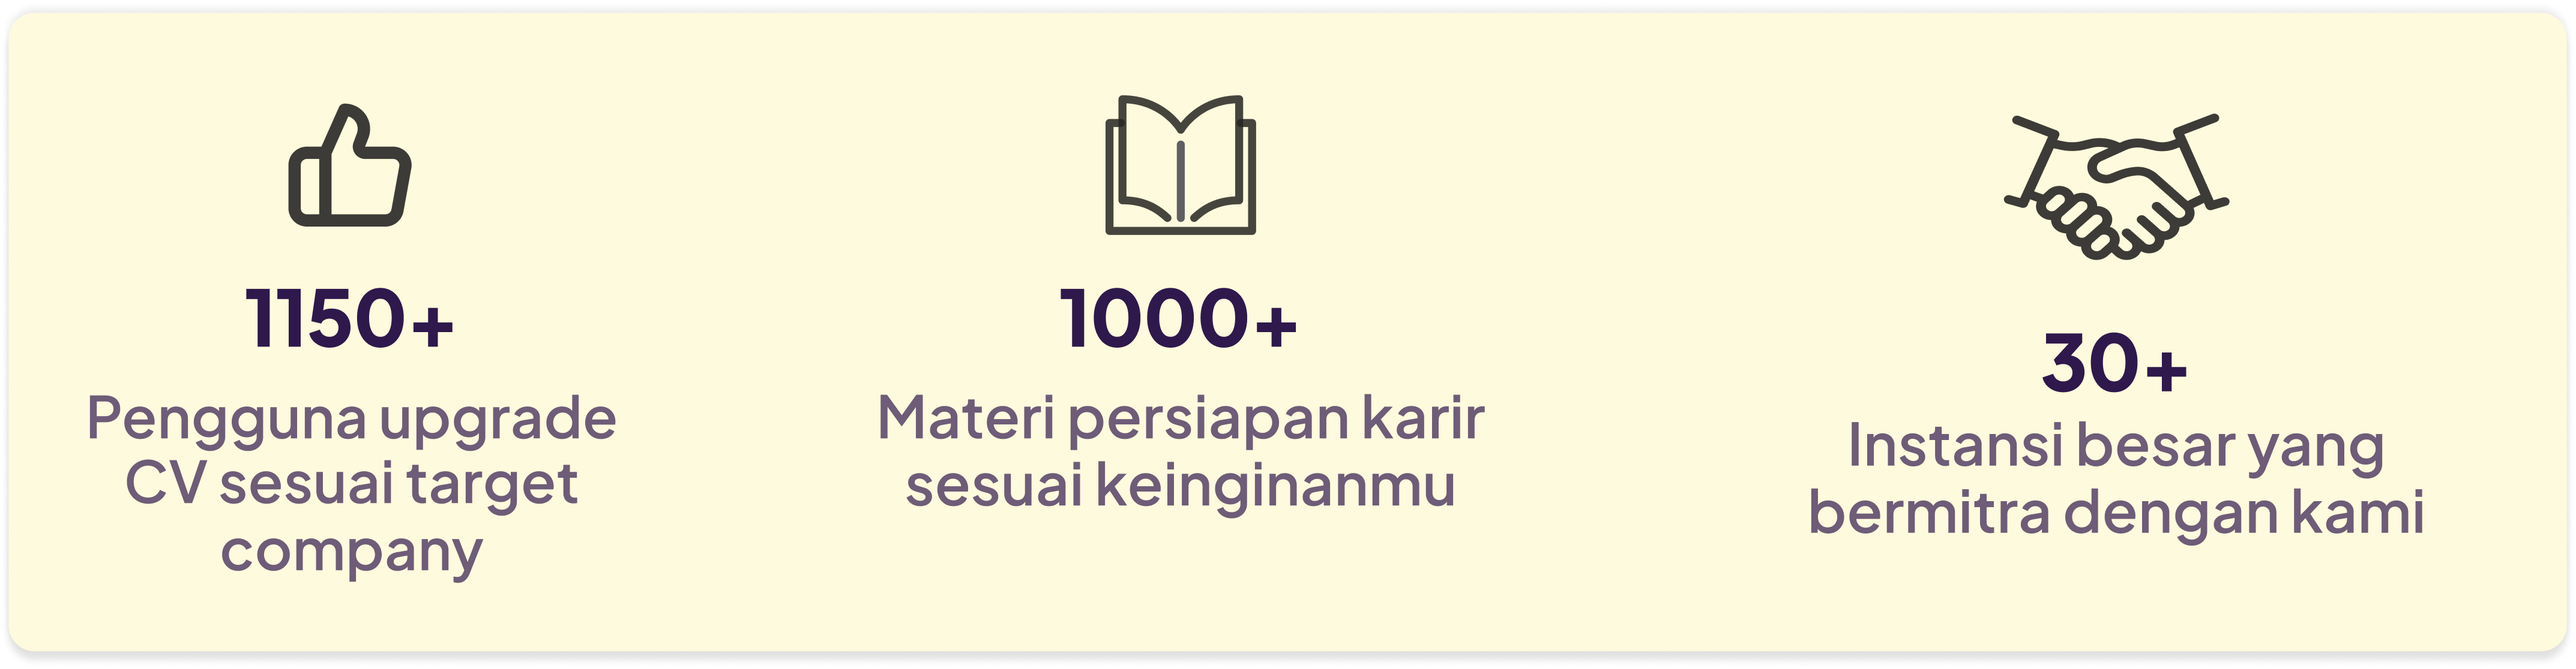
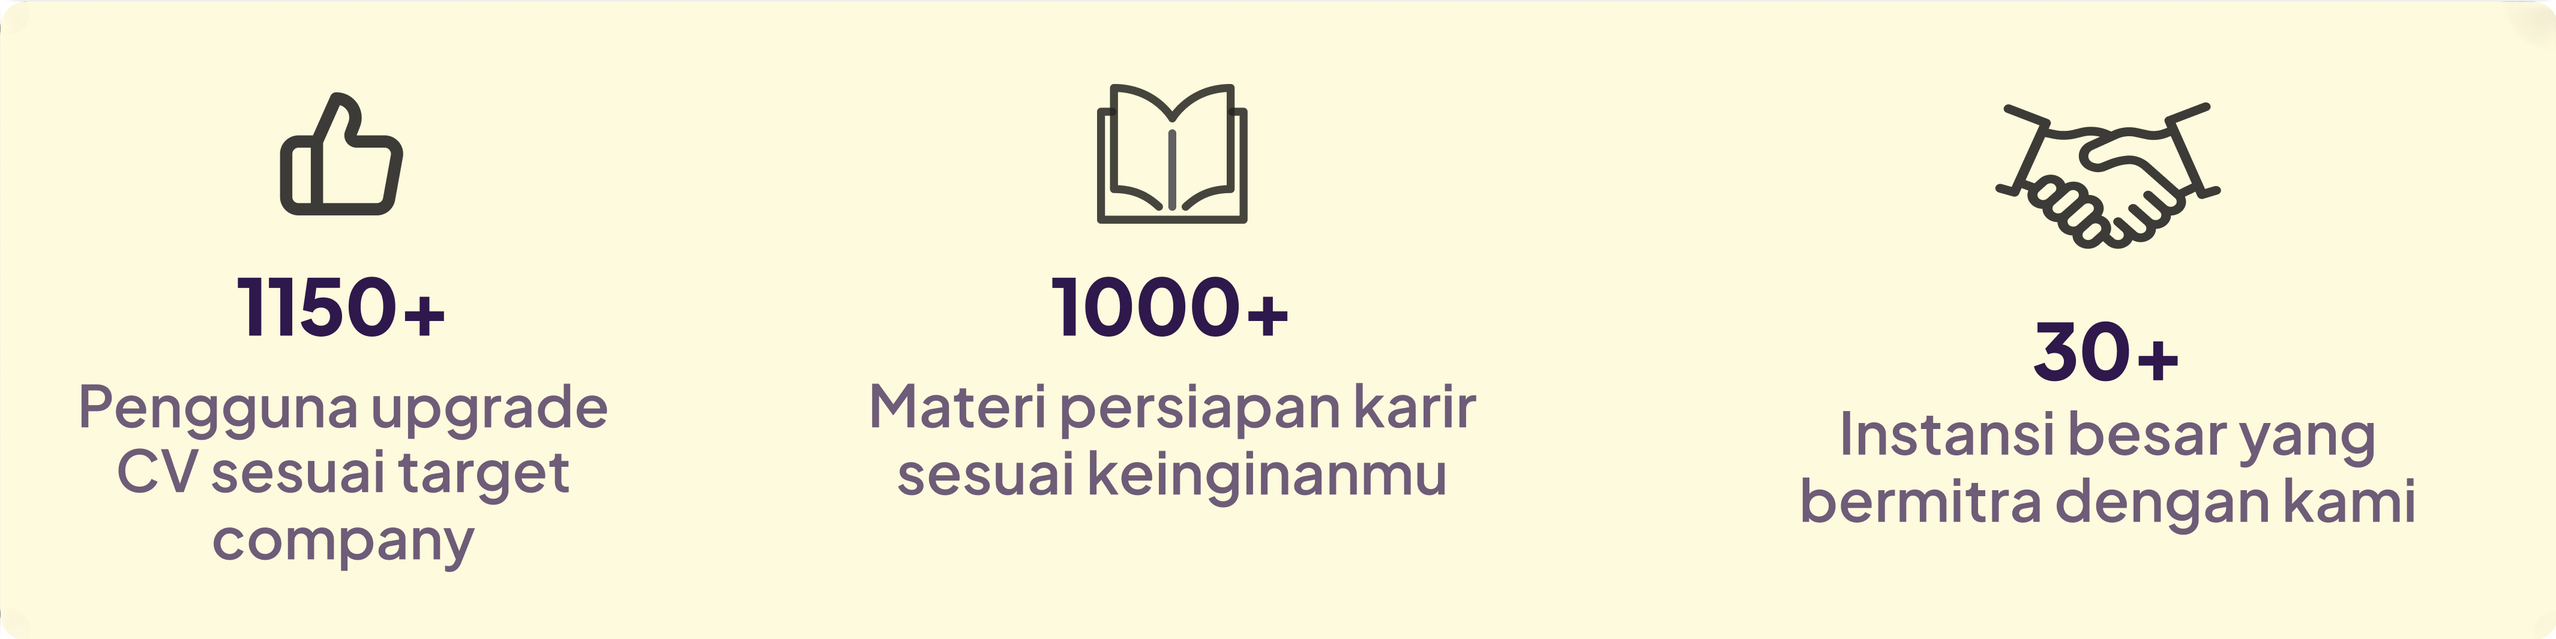
fix: bg home herosection desktop and mobile

diff --git a/src/components/home/HeroSection.tsx b/src/components/home/HeroSection.tsx
@@ -36,7 +36,7 @@ export default function HeroSection() {
   }, []);
 
   return (
-    <section className="relative overflow-hidden bg-background">
+    <section className="relative overflow-hidden bg-[#FFF7D6]">
       <style jsx>{`
         @keyframes fadeInUp {
           0% {
@@ -86,8 +86,8 @@ export default function HeroSection() {
         </div>
 
         {/* STATISTIK MOBILE */}
-        <div className="relative px-4 pt-6 pb-6">
-          <div className="overflow-hidden rounded-3xl bg-background shadow-lg">
+        <div className="relative px-4 pt-6 pb-6 bg-[#FFF7D6]">
+          <div className="overflow-hidden rounded-3xl bg-[#FFF7D6] shadow-lg">
             <Image
               src="/assets/home/herostatistik4.png"
               alt="Statistik ProCareer"
